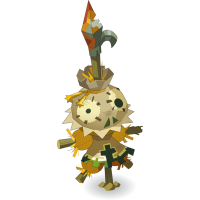
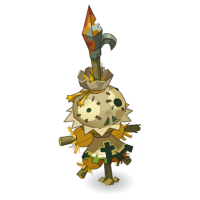
traps with correct borders and updated colors

Changed region(s): [[0.27, 0.0, 0.72, 0.99], [0.48, 0.51, 0.51, 0.54]]

diff --git a/js/consts.js b/js/consts.js
@@ -37,17 +37,17 @@ const AREA = {
 };
 const TRAP = {
   NONE:          { id: 0,  color: { stroke: 'rgb(  0,   0,   0)', cell: 'rgba(  0,   0,   0, 0.5)' }, area: { type: AREA.CELL,     size: 0 }, degressive: true,  effects: [] },
-  TRICKY:        { id: 1,  color: { stroke: 'rgb(255,   0,   0)', cell: 'rgba(255,   0,   0, 0.5)' }, area: { type: AREA.CROSS,    size: 1 }, degressive: true,  effects: [{ type: EFFECT.DAMAGE.FIRE,      value: { min: 26, max: 28 }, area: { type: AREA.CROSS,    size: 1 } }, { type: EFFECT.PULL,         value: { min: 1,   max: 1 },   area: { type: AREA.CROSS,    size: 1 } }] },
+  TRICKY:        { id: 1,  color: { stroke: 'rgb(194,  23,  26)', cell: 'rgba(178,  77,  64, 0.5)' }, area: { type: AREA.CROSS,    size: 1 }, degressive: true,  effects: [{ type: EFFECT.DAMAGE.FIRE,      value: { min: 26, max: 28 }, area: { type: AREA.CROSS,    size: 1 } }, { type: EFFECT.PULL,         value: { min: 1,   max: 1 },   area: { type: AREA.CROSS,    size: 1 } }] },
   INSIDIOUS:     { id: 2,  color: { stroke: 'rgb(  0,   0, 128)', cell: 'rgba(  0,   0, 128, 0.5)' }, area: { type: AREA.CELL,     size: 0 }, degressive: true,  effects: [{ type: EFFECT.INSIDIOUS_GLYPH,  value: { min: 48, max: 52 }, area: { type: AREA.CIRCLE,   size: 3 } }] },
   MIRY:          { id: 3,  color: { stroke: 'rgb(  0,   0, 255)', cell: 'rgba(  0,   0, 255, 0.5)' }, area: { type: AREA.CELL,     size: 0 }, degressive: true,  effects: [{ type: EFFECT.DAMAGE.WATER,     value: { min: 33, max: 37 }, area: { type: AREA.CELL,     size: 0 } }, { type: EFFECT.MIRY_HEAL,    value: { min: 0.5, max: 0.5 }, area: { type: AREA.CIRCLE,   size: 2 } }] },
   MASS:          { id: 4,  color: { stroke: 'rgb( 96,  48,   0)', cell: 'rgba( 96,  48,   0, 0.5)' }, area: { type: AREA.CELL,     size: 0 }, degressive: true,  effects: [{ type: EFFECT.DAMAGE.EARTH,     value: { min: 34, max: 38 }, area: { type: AREA.CIRCLE,   size: 3 } }] },
-  DRIFT:         { id: 5,  color: { stroke: 'rgb(128,   0,   0)', cell: 'rgba(128,   0,   0, 0.5)' }, area: { type: AREA.DIAGONAL, size: 1 }, degressive: true,  effects: [{ type: EFFECT.DAMAGE.FIRE,      value: { min: 17, max: 19 }, area: { type: AREA.DIAGONAL, size: 1 } }, { type: EFFECT.PUSH,         value: { min: 2,   max: 2 },   area: { type: AREA.DIAGONAL, size: 1 } }] },
-  MALEVOLENT:    { id: 6,  color: { stroke: 'rgb(  48, 24,   0)', cell: 'rgba(  48, 24,   0, 0.5)' }, area: { type: AREA.CELL,     size: 0 }, degressive: true,  effects: [{ type: EFFECT.MALEVOLENT_BOOST, value: { min: 20, max: 20 }, area: { type: AREA.CIRCLE,   size: 2 } }, { type: EFFECT.DAMAGE.EARTH, value: { min: 28,  max: 32 },  area: { type: AREA.CELL,     size: 0 } }] },
+  DRIFT:         { id: 5,  color: { stroke: 'rgb(194,  23,  26)', cell: 'rgba(175,  90,  74, 0.62)' }, area: { type: AREA.DIAGONAL, size: 1 }, degressive: true,  effects: [{ type: EFFECT.DAMAGE.FIRE,      value: { min: 17, max: 19 }, area: { type: AREA.DIAGONAL, size: 1 } }, { type: EFFECT.PUSH,         value: { min: 2,   max: 2 },   area: { type: AREA.DIAGONAL, size: 1 } }] },
+  MALEVOLENT:    { id: 6,  color: { stroke: 'rgb( 84,  39,  20)', cell: 'rgba( 84,  39,  20, 0.25)' }, area: { type: AREA.CELL,     size: 0 }, degressive: true,  effects: [{ type: EFFECT.MALEVOLENT_BOOST, value: { min: 20, max: 20 }, area: { type: AREA.CIRCLE,   size: 2 } }, { type: EFFECT.DAMAGE.EARTH, value: { min: 28,  max: 32 },  area: { type: AREA.CELL,     size: 0 } }] },
   FRAGMENTATION: { id: 7,  color: { stroke: 'rgb(196,   0,   0)', cell: 'rgba(196,   0,   0, 0.5)' }, area: { type: AREA.CELL,     size: 0 }, degressive: false, effects: [{ type: EFFECT.DAMAGE.FIRE,      value: { min: 13, max: 17 }, area: { type: AREA.CELL,     size: 0 } }, { type: EFFECT.DAMAGE.FIRE,  value: { min: 27,  max: 31 },  area: { type: AREA.RING,     size: 1 } }, { type: EFFECT.DAMAGE.FIRE, value: { min: 37, max: 41 }, area: { type: AREA.RING, size: 2 } }, { type: EFFECT.DAMAGE.FIRE, value: { min: 47, max: 51 }, area: { type: AREA.RING, size: 3 } }] },
   PARALYSING:    { id: 8,  color: { stroke: 'rgb(  0,  64,   0)', cell: 'rgba(  0,  64,   0, 0.5)' }, area: { type: AREA.CIRCLE,   size: 3 }, degressive: true,  effects: [{ type: EFFECT.MP,               value: { min: 4,  max: 4 },  area: { type: AREA.CIRCLE,   size: 3 } }] },
-  REPELLING:     { id: 9,  color: { stroke: 'rgb(128, 255,   0)', cell: 'rgba(128, 255,   0, 0.5)' }, area: { type: AREA.CROSS,    size: 1 }, degressive: true,  effects: [{ type: EFFECT.PUSH,             value: { min: 2,  max: 2 },  area: { type: AREA.CROSS,    size: 1 } }, { type: EFFECT.DAMAGE.AIR,   value: { min: 12,  max: 12 },  area: { type: AREA.CROSS,    size: 1 } }] },
+  REPELLING:     { id: 9,  color: { stroke: 'rgb(157, 235, 147)', cell: 'rgba(157, 235, 147, 0.37)' }, area: { type: AREA.CROSS,    size: 1 }, degressive: true,  effects: [{ type: EFFECT.PUSH,             value: { min: 2,  max: 2 },  area: { type: AREA.CROSS,    size: 1 } }, { type: EFFECT.DAMAGE.AIR,   value: { min: 12,  max: 12 },  area: { type: AREA.CROSS,    size: 1 } }] },
   SICKRAT:       { id: 10, color: { stroke: 'rgb(128,   0, 255)', cell: 'rgba(128,   0, 255, 0.5)' }, area: { type: AREA.CELL,     size: 0 }, degressive: true,  effects: [{ type: EFFECT.PULL,             value: { min: 3,  max: 3 },  area: { type: AREA.CROSS,    size: 3 } }, { type: EFFECT.DAMAGE.WATER, value: { min: 17,  max: 19 },  area: { type: AREA.CROSS,    size: 3 } }] },
-  LETHAL:        { id: 11, color: { stroke: 'rgb(  0,   0,   0)', cell: 'rgba(  0,   0,   0, 0.5)' }, area: { type: AREA.CELL,     size: 0 }, degressive: true,  effects: [{ type: EFFECT.DAMAGE.EARTH,     value: { min: 39, max: 43 }, area: { type: AREA.CELL,     size: 0 } }] },
+  LETHAL:        { id: 11, color: { stroke: 'rgb( 84,  39,  20)', cell: 'rgba( 84,  39,  20, 0.25)' }, area: { type: AREA.CELL,     size: 0 }, degressive: true,  effects: [{ type: EFFECT.DAMAGE.EARTH,     value: { min: 39, max: 43 }, area: { type: AREA.CELL,     size: 0 } }] },
   TEST:          { id: 11, color: { stroke: 'rgb(255, 255, 255)', cell: 'rgba(255, 255, 255, 0.5)' }, area: { type: AREA.CROSS,    size: 1 }, degressive: true,  effects: [{ type: EFFECT.PUSH,      value: { min: 2,  max: 2 },  area: { type: AREA.CROSS,    size: 2 } }, { type: EFFECT.PULL,  value: { min: 2,   max: 2 },   area: { type: AREA.CROSS,    size: 1 } }] }
 };
 const TEAM = {
@@ -69,4 +69,10 @@ const SPELL = {
   TRAP: 0,
   ENTITY: 1,
   ACTION: 2
+};
+const CELL_BORDER = { // Use with binary operators
+  NORTH: 1,
+  EAST: 2,
+  SOUTH: 4,
+  WEST: 8
 };

diff --git a/js/main.js b/js/main.js
@@ -3,24 +3,24 @@ let canvas = new Canvas();
 let mapGraphics;
 let sidebarGraphics;
 let img = [
-  { name: 'Poutch Ingball', path: '/assets/img/poutch.png', asset: null, offsetX: 0, offsetY: 0 },
-  { name: 'Piège Sournois', path: '/assets/img/65.png', asset: null, offsetX: 0, offsetY: 0 },
-  { name: 'Piège d\'Immobilisation', path: '/assets/img/69.png', asset: null, offsetX: 0, offsetY: 0 },
-  { name: 'Piège Répulsif', path: '/assets/img/73.png', asset: null, offsetX: 0, offsetY: 0 },
-  { name: 'Piège Fangeux', path: '/assets/img/75.png', asset: null, offsetX: 0, offsetY: 0 },
-  { name: 'Piège Insidieux', path: '/assets/img/77.png', asset: null, offsetX: 0, offsetY: 0 },
-  { name: 'Piège de Masse', path: '/assets/img/79.png', asset: null, offsetX: 0, offsetY: 0 },
-  { name: 'Piège Mortel', path: '/assets/img/80.png', asset: null, offsetX: 0, offsetY: 0 },
-  { name: 'Piège Funeste', path: '/assets/img/3627.png', asset: null, offsetX: 0, offsetY: 0 },
-  { name: 'Piège de Dérive', path: '/assets/img/3634.png', asset: null, offsetX: 0, offsetY: 0 },
-  { name: 'Piège Scélérat', path: '/assets/img/3638.png', asset: null, offsetX: 0, offsetY: 0 },
-  { name: 'Piège à Fragmentation', path: '/assets/img/3641.png', asset: null, offsetX: 0, offsetY: 0 },
-  { name: 'Concentration de Chakra', path: '/assets/img/62.png', asset: null, offsetX: 0, offsetY: 0 },
-  { name: 'Invocation Cawotte', path: '/assets/img/367.png', asset: null, offsetX: 0, offsetY: 0 },
-  { name: 'Sort', path: '/assets/img/spellSlot.png', asset: null, offsetX: 0, offsetY: 0 },
-  { name: 'Invocation Poutch', path: '/assets/img/3733.png', asset: null, offsetX: 0, offsetY: 0 },
-  { name: 'Déclencher', path: '/assets/img/2778.png', asset: null, offsetX: 0, offsetY: 0 },
-  { name: 'Cawotte', path: '/assets/img/Cawotte.png', asset: null, offsetX: 2, offsetY: 10 }
+  { name: 'Poutch Ingball', path: '/assets/img/poutch.png', asset: null, offsetX: -4, offsetY: 9, scale: 1.43 },
+  { name: 'Piège Sournois', path: '/assets/img/65.png', asset: null, offsetX: 0, offsetY: 0, scale: 1 },
+  { name: 'Piège d\'Immobilisation', path: '/assets/img/69.png', asset: null, offsetX: 0, offsetY: 0, scale: 1 },
+  { name: 'Piège Répulsif', path: '/assets/img/73.png', asset: null, offsetX: 0, offsetY: 0, scale: 1 },
+  { name: 'Piège Fangeux', path: '/assets/img/75.png', asset: null, offsetX: 0, offsetY: 0, scale: 1 },
+  { name: 'Piège Insidieux', path: '/assets/img/77.png', asset: null, offsetX: 0, offsetY: 0, scale: 1 },
+  { name: 'Piège de Masse', path: '/assets/img/79.png', asset: null, offsetX: 0, offsetY: 0, scale: 1 },
+  { name: 'Piège Mortel', path: '/assets/img/80.png', asset: null, offsetX: 0, offsetY: 0, scale: 1 },
+  { name: 'Piège Funeste', path: '/assets/img/3627.png', asset: null, offsetX: 0, offsetY: 0, scale: 1 },
+  { name: 'Piège de Dérive', path: '/assets/img/3634.png', asset: null, offsetX: 0, offsetY: 0, scale: 1 },
+  { name: 'Piège Scélérat', path: '/assets/img/3638.png', asset: null, offsetX: 0, offsetY: 0, scale: 1 },
+  { name: 'Piège à Fragmentation', path: '/assets/img/3641.png', asset: null, offsetX: 0, offsetY: 0, scale: 1 },
+  { name: 'Concentration de Chakra', path: '/assets/img/62.png', asset: null, offsetX: 0, offsetY: 0, scale: 1 },
+  { name: 'Invocation Cawotte', path: '/assets/img/367.png', asset: null, offsetX: 0, offsetY: 0, scale: 1 },
+  { name: 'Sort', path: '/assets/img/spellSlot.png', asset: null, offsetX: 0, offsetY: 0, scale: 1 },
+  { name: 'Invocation Poutch', path: '/assets/img/3733.png', asset: null, offsetX: 0, offsetY: 0, scale: 1 },
+  { name: 'Déclencher', path: '/assets/img/2778.png', asset: null, offsetX: 0, offsetY: 0, scale: 1 },
+  { name: 'Cawotte', path: '/assets/img/Cawotte.png', asset: null, offsetX: 2, offsetY: 14, scale: 1.5 }
 ];
 let spellData = [
   { name: 'Piège Sournois', icon: img[1], type: SPELL.TRAP, effect: TRAP.TRICKY },
@@ -34,8 +34,8 @@ let spellData = [
   { name: 'Piège Fangeux', icon: img[4], type: SPELL.TRAP, effect: TRAP.MIRY },
   { name: 'Piège Scélérat', icon: img[10], type: SPELL.TRAP, effect: TRAP.SICKRAT },
   { name: 'Piège d\'Immobilisation', icon: img[2], type: SPELL.TRAP, effect: TRAP.PARALYSING },
-  { name: 'Cawotte', icon: img[13], type: SPELL.ENTITY, effect: { hp: 660, image: img[17] } },
-  { name: 'Poutch', icon: img[15], type: SPELL.ENTITY, effect: { hp: 50000, image: img[0] } },
+  { name: 'Cawotte', icon: img[13], type: SPELL.ENTITY, effect: { hp: 660, image: img[17], movable: false } },
+  { name: 'Poutch', icon: img[15], type: SPELL.ENTITY, effect: { hp: 50000, image: img[0], movable: true } },
   { name: 'Déclencher', icon: img[16], type: SPELL.ACTION, effect: null }
 ];
 

diff --git a/js/mapDisplay.js b/js/mapDisplay.js
@@ -48,8 +48,9 @@ function drawTraps()
 
       map.traps.slice().reverse().forEach(trap => {
         if (trap.isInTrap(i, j)) {
-          strokeWeight(4);
-          drawCell(i, j, trap.trap.color.cell, trap.trap.color.stroke);
+          let borders = trap.getBorders(i, j);
+          strokeWeight(2.5);
+          drawCell(i, j, trap.trap.color.cell, trap.trap.color.stroke, '', null, borders);
           strokeWeight(1);
         }
       });
@@ -68,17 +69,31 @@ function drawSelectedSpell()
   }
 }
 
-function drawQuad(x, y, w, h, cellColor, strokeColor, graphics)
+function drawQuad(x, y, w, h, cellColor, strokeColor, graphics, borders)
 {
   if (graphics) {
     graphics.stroke(strokeColor);
+    if (borders !== undefined) {
+      if (borders & CELL_BORDER.NORTH) graphics.line(x + w,   y + h/2, x + w/2, y);
+      if (borders & CELL_BORDER.EAST)  graphics.line(x + w/2, y + h,   x + w,   y + h/2);
+      if (borders & CELL_BORDER.SOUTH) graphics.line(x,       y + h/2, x + w/2, y + h);
+      if (borders & CELL_BORDER.WEST)  graphics.line(x + w/2, y,       x,       y + h/2);
+      graphics.noStroke();
+    }
     graphics.fill(cellColor);
     graphics.quad(x + w/2, y,
-         x,       y + h/2,
-         x + w/2, y + h,
-         x + w,   y + h/2);
+    x,       y + h/2,
+    x + w/2, y + h,
+    x + w,   y + h/2);
   } else {
     stroke(strokeColor);
+    if (borders !== undefined) {
+      if (borders & CELL_BORDER.NORTH) line(x + w,   y + h/2, x + w/2, y);
+      if (borders & CELL_BORDER.EAST)  line(x + w/2, y + h,   x + w,   y + h/2);
+      if (borders & CELL_BORDER.SOUTH) line(x,       y + h/2, x + w/2, y + h);
+      if (borders & CELL_BORDER.WEST)  line(x + w/2, y,       x,       y + h/2);
+      noStroke();
+    }
     fill(cellColor);
     quad(x + w/2, y,
          x,       y + h/2,
@@ -87,7 +102,7 @@ function drawQuad(x, y, w, h, cellColor, strokeColor, graphics)
   }
 }
 
-function drawCell(x, y, cellColor, strokeColor, str, graphics)
+function drawCell(x, y, cellColor, strokeColor, str, graphics, borders)
 {
   if (y % 2 === 0) {
     posX = x * CELL_W;
@@ -97,7 +112,7 @@ function drawCell(x, y, cellColor, strokeColor, str, graphics)
     posY = (y/2) * CELL_H;
   }
 
-  drawQuad(posX, posY, CELL_W, CELL_H, cellColor, strokeColor, graphics);
+  drawQuad(posX, posY, CELL_W, CELL_H, cellColor, strokeColor, graphics, borders);
 
   if (str !== undefined) {
     if (graphics) {
@@ -161,13 +176,13 @@ function drawEntities()
       map.animCompletion += map.animSpeed / FRAMERATE;
     }
 
-    strokeWeight(4);
+    strokeWeight(2.5);
     stroke(entity.team.color.stroke);
     fill(entity.team.color.cell);
-    ellipse(pos.x, pos.y, CELL_W * 0.7, CELL_H * 0.7);
+    ellipse(pos.x, pos.y, CELL_W * 0.55, CELL_H * 0.55);
     strokeWeight(1);
 
-    let width = CELL_W;
+    let width = CELL_W * entity.image.scale;
     let height = width * (entity.image.asset.height / entity.image.asset.width);
 
     image(

diff --git a/js/trap.js b/js/trap.js
@@ -26,4 +26,42 @@ class Trap {
         return false;
     }
   }
+
+  getBorders(id_or_x, y, no_check = true) {
+    if (!no_check && !this.isInTrap(id_or_x, y)) return 0;
+
+    let x = (y === undefined ? id_or_x % this.width : id_or_x);
+    y = (y === undefined ? Math.floor(id_or_x / this.width) : y);
+    let distance = Map.distance(this.cell.x, this.cell.y, x, y);
+
+    let borders = 0;
+    if (this.trap.area.size === 0) borders |= CELL_BORDER.NORTH | CELL_BORDER.EAST | CELL_BORDER.SOUTH | CELL_BORDER.WEST;
+
+    switch (this.trap.area.type) {
+      case AREA.CELL:
+      case AREA.DIAGONAL:
+      case AREA.RING:
+        borders |= CELL_BORDER.NORTH | CELL_BORDER.EAST | CELL_BORDER.SOUTH | CELL_BORDER.WEST;
+        break;
+      case AREA.CROSS:
+        if (distance.real === 0) break;
+        if (distance.relative.x < 0 === distance.relative.y < 0) borders |= CELL_BORDER.NORTH | CELL_BORDER.SOUTH;
+        else borders |= CELL_BORDER.EAST | CELL_BORDER.WEST;
+        if (distance.relative.x > 0 && distance.relative.y < 0 && distance.real === this.trap.area.size) borders |= CELL_BORDER.NORTH;
+        if (distance.relative.x > 0 && distance.relative.y > 0 && distance.real === this.trap.area.size) borders |= CELL_BORDER.EAST;
+        if (distance.relative.x < 0 && distance.relative.y > 0 && distance.real === this.trap.area.size) borders |= CELL_BORDER.SOUTH;
+        if (distance.relative.x < 0 && distance.relative.y < 0 && distance.real === this.trap.area.size) borders |= CELL_BORDER.WEST;
+        break;
+      case AREA.CIRCLE:
+        if (distance.real < this.trap.area.size) break;
+        if (distance.relative.x === this.trap.area.size)  borders |= CELL_BORDER.NORTH | CELL_BORDER.EAST;
+        if (distance.relative.y === this.trap.area.size)  borders |= CELL_BORDER.SOUTH | CELL_BORDER.EAST;
+        if (distance.relative.x === -this.trap.area.size) borders |= CELL_BORDER.SOUTH | CELL_BORDER.WEST;
+        if (distance.relative.y === -this.trap.area.size) borders |= CELL_BORDER.NORTH | CELL_BORDER.WEST;
+        break;
+      default:
+        break;
+    }
+    return borders;
+  }
 }

diff --git a/js/map.js b/js/map.js
@@ -20,17 +20,23 @@ class Map extends Clickable {
           if (this.map[i][j].click(x - this.x, y - this.y)) {
             switch (canvas.selectedSpell?.type) {
               case SPELL.TRAP:
+                if (this.traps.some((trap) => trap.cell.x === i && trap.cell.y === j))
+                  break;
                 this.placeTrap(new Trap(canvas.selectedSpell.effect, this.map[i][j]));
+                canvas.unselectSpell();
                 break;
               case SPELL.ENTITY:
-                this.placeEntity(new Entity(1, this.map[i][j], TEAM.DEFENDER, canvas.selectedSpell.effect.image));
+                if (this.entities.some((entity) => entity.cell.x === i && entity.cell.y === j))
+                  break;
+                this.placeEntity(new Entity(1, this.map[i][j], TEAM.DEFENDER, canvas.selectedSpell.effect.movable, canvas.selectedSpell.effect.image));
+                canvas.unselectSpell();
                 break;
               case SPELL.ACTION:
                 this.triggerTraps(i, j);
+                canvas.unselectSpell();
               default:
                 break;
             }
-            canvas.unselectSpell();
             return true;
           }
         }

diff --git a/js/entity.js b/js/entity.js
@@ -1,8 +1,9 @@
 class Entity {
-  constructor(hp, cell, team, image) {
+  constructor(hp, cell, team, movable, image) {
     this.hp = hp;
     this.cell = cell;
     this.team = team;
+    this.movable = movable;
     this.image = image;
     this.nextCell = null;
     this.initOffensiveStats();
@@ -57,6 +58,7 @@ class Entity {
     let damage;
     switch (effect.type) {
       case EFFECT.PULL:
+        if (!this.movable) break;
         direction = getDirection(effect.targetCell.id, effect.originCell.id);
         value = effect.min;
         if ([DIRECTION.NORTHEAST, DIRECTION.SOUTHEAST, DIRECTION.SOUTHWEST, DIRECTION.NORTHWEST].includes(direction)) {
@@ -75,6 +77,7 @@ class Entity {
         break;
 
       case EFFECT.PUSH:
+        if (!this.movable) break;
         direction = getDirection(effect.originCell.id, effect.targetCell.id);
         value = effect.min;
         let diagonal = false;
